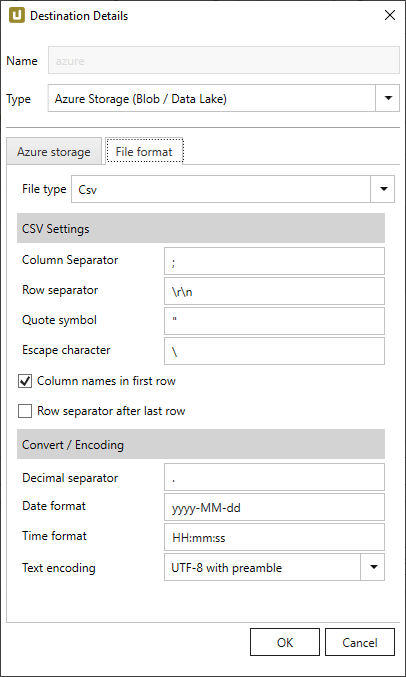
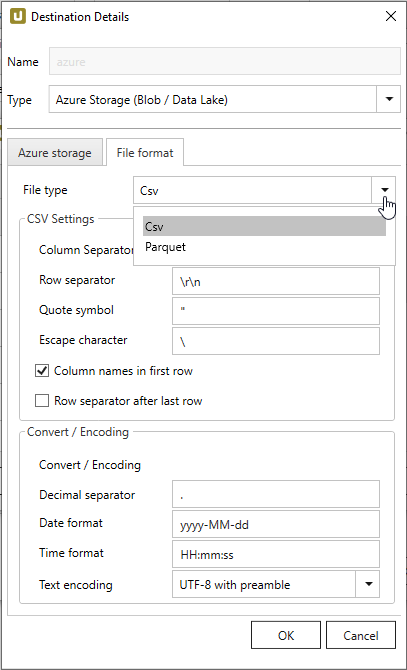
blob connection

Changed region(s): [[0.0, 0.0, 1.0, 1.0], [0.9458, 0.0, 1.0, 0.0299]]

diff --git a/content/_de/xtract-universal/xu-destinationen/azure-storage/blob-verbindung.md b/content/_de/xtract-universal/xu-destinationen/azure-storage/blob-verbindung.md
@@ -148,6 +148,14 @@ Option zum Erstellen eines Verzeichnisses innerhalb des Containers zum Abspeiche
 
 ### File Format 
 Wählen Sie das gewünschte Dateiformat zwischen "Parquet" und "CSV".
+Wenn Sie "Parquet" Dateiformat auswählen, können Sie zwischen "Pure" und "Spark" Kompabilitätsmodi auswählen.
+
+| SAP | Pure | Spark |
+|------|-------------|-------|
+| INT1 | UINT_8 | INT16 |
+| TIMS | TIME_MILLIS | UTF8 |
+
+Spark unterstützt nicht die im Pure-Mode verwendeten Datentypen, daher müssen andere Datentypen verwendet werden.
 
 Die "CSV" Einstellungen entsprechen denen der allgemeinen [Flat File CSV Einstellungen](../csv-flat-file).
 

diff --git a/content/_en/xtract-universal/xu-destinations/azure-storage/blob-connection.md b/content/_en/xtract-universal/xu-destinations/azure-storage/blob-connection.md
@@ -143,6 +143,14 @@ Option to create a directory within the container for saving files. See also [De
 
 ### File Format 
 Select the required file format between "Parquet" and "CSV".
+When you select "Parquet" file format, you can choose between "Pure" and "Spark" compatibility modes.
+
+| SAP | Pure | Spark |
+|------|-------------|-------|
+| INT1 | UINT_8 | INT16 |
+| TIMS | TIME_MILLIS | UTF8 |
+
+Spark does not support the datatypes used in pure mode, so other datatypes need to be used.
 
 The settings for file type "CSV" correspond to the [Flat File CSV settings](../csv-flat-file).
 
